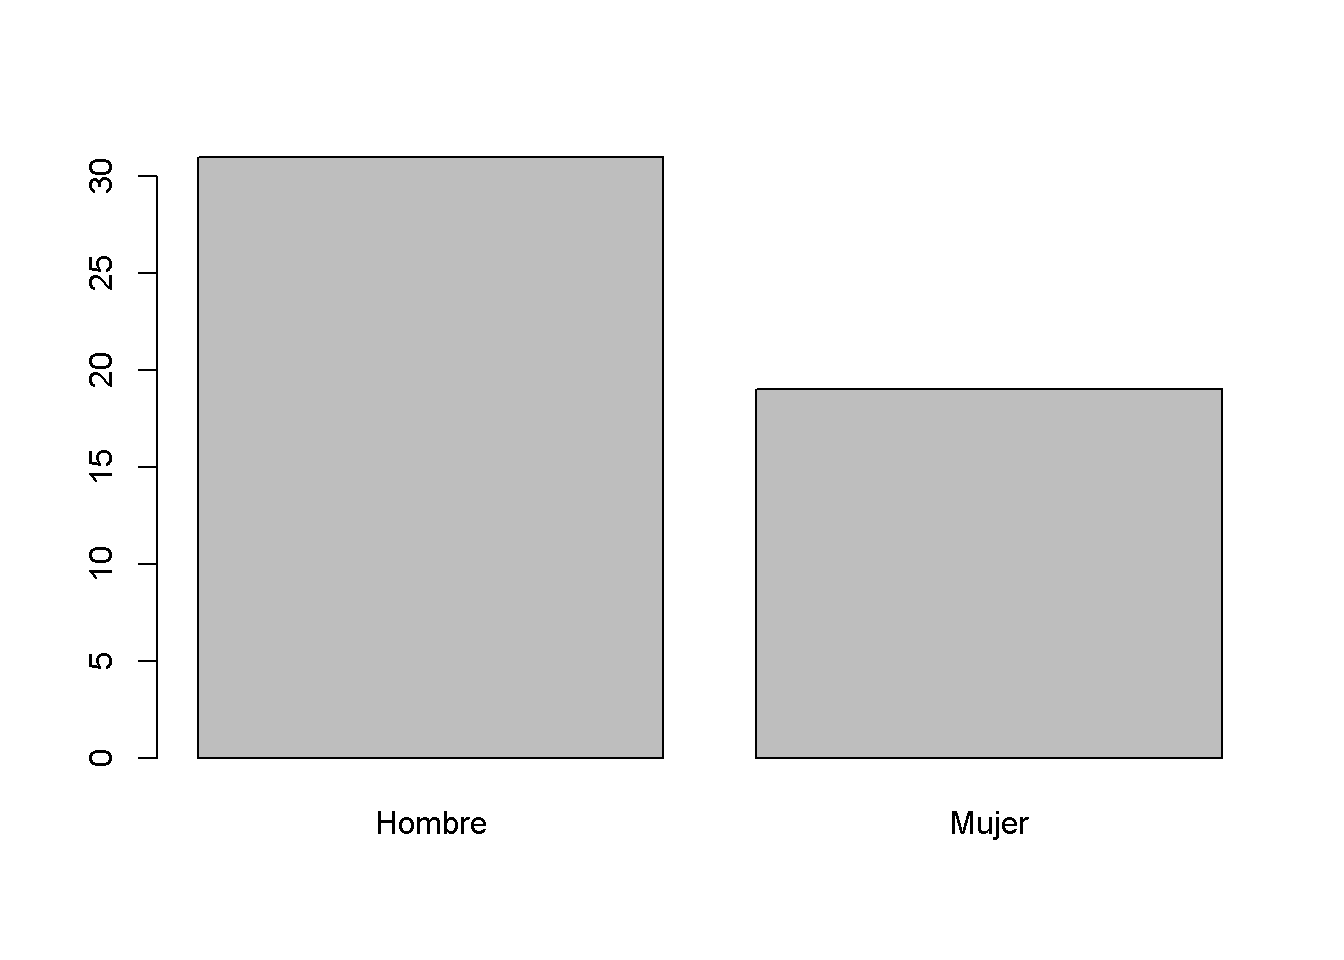
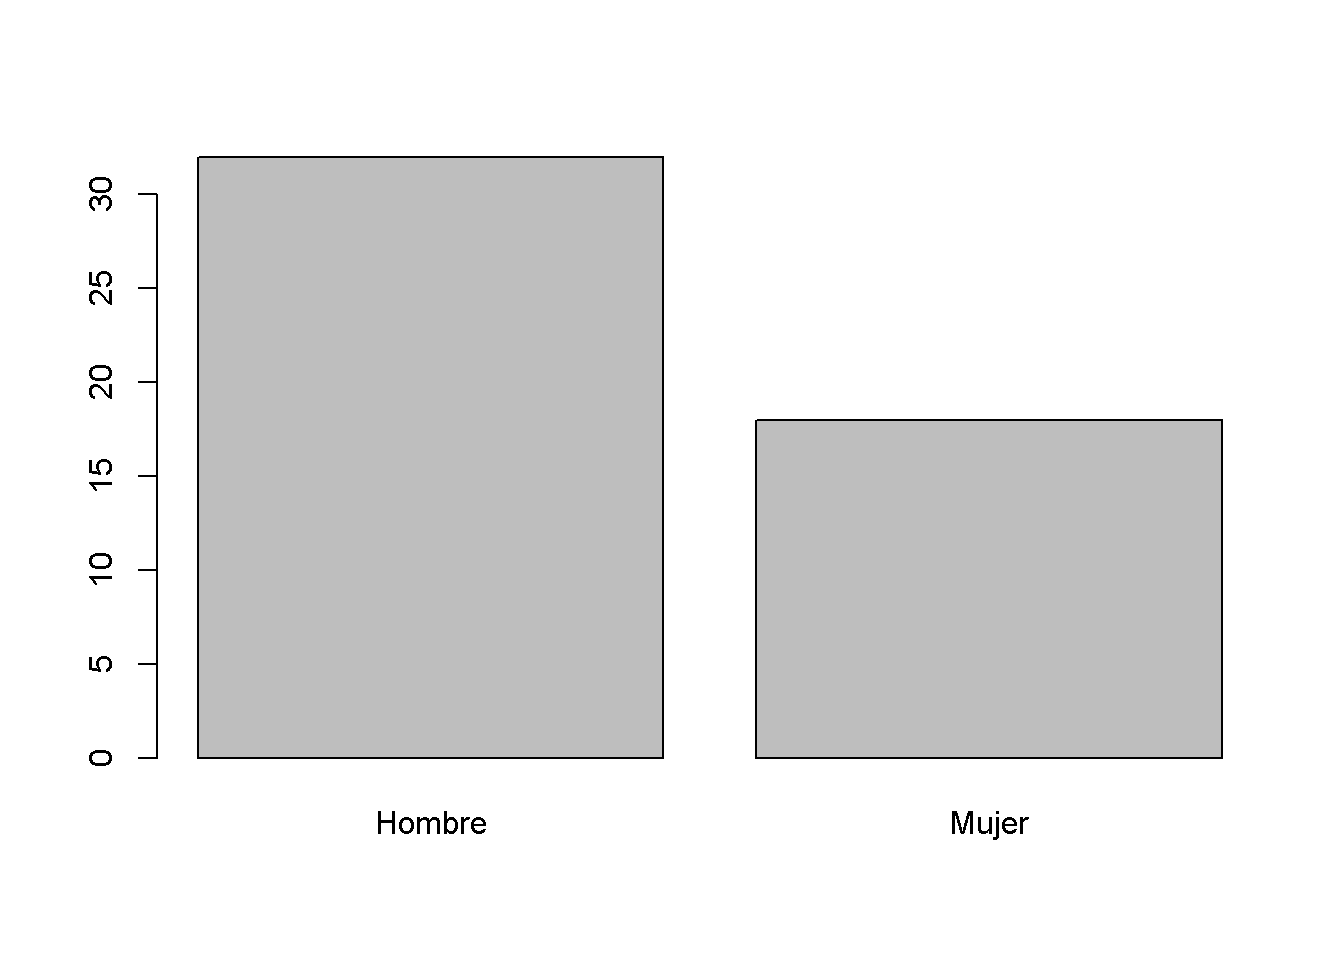
Conflict solving

diff --git a/docs/PR_1_lect.html b/docs/PR_1_lect.html
@@ -9,7 +9,7 @@
 <meta name="author" content="Jesús Esteban Hernández">
 <meta name="dcterms.date" content="2022-02-12">
 
-<title>Bioestadística - Práctica2  Introducción a R y RStudio.</title>
+<title>Bioestadística - Práctica1  Introducción a R y RStudio.</title>
 <style>
 code{white-space: pre-wrap;}
 span.smallcaps{font-variant: small-caps;}
@@ -151,7 +151,7 @@ code span.wa { color: #60a0b0; font-weight: bold; font-style: italic; } /* Warni
   </li>  
   <li class="nav-item">
     <a class="nav-link active" href="./PR_1_lect.html" aria-current="page">
- <span class="menu-text">Práctica2 <br> Introducción a R y RStudio.</span></a>
+ <span class="menu-text">Práctica1 <br> Introducción a R y RStudio.</span></a>
   </li>  
   <li class="nav-item">
     <a class="nav-link" href="./PR_0_lect.html">
@@ -221,7 +221,7 @@ code span.wa { color: #60a0b0; font-weight: bold; font-style: italic; } /* Warni
 
 <header id="title-block-header" class="quarto-title-block default">
 <div class="quarto-title">
-<h1 class="title">Práctica2 <br> Introducción a R y RStudio.</h1>
+<h1 class="title">Práctica1 <br> Introducción a R y RStudio.</h1>
 </div>
 
 
@@ -260,12 +260,12 @@ code span.wa { color: #60a0b0; font-weight: bold; font-style: italic; } /* Warni
     right: 2px;
     margin: 2px 20px 20px 0px;
     color: red;
-    font-size: 2px;
+    font-size: 6px;
   }
 
   .main-container {
   
-  width:1800px !important;
+  width:2400px !important;
   margin-left: 10px;
   margin-right: 10px;
   
@@ -889,7 +889,7 @@ CT       193   4256 341.0   774</code></pre>
  $ :'data.frame':   50 obs. of  3 variables:
  $ :List of 3
   ..- attr(*, "engineVersion")= int 16
-  ..- attr(*, "pid")= int 19560
+  ..- attr(*, "pid")= int 1564
   ..- attr(*, "Rversion")=Classes 'R_system_version', 'package_version', 'numeric_version'  hidden list of 1
   ..- attr(*, "load")= chr(0) 
   ..- attr(*, "attach")= chr(0) 
@@ -913,16 +913,16 @@ CT       193   4256 341.0   774</code></pre>
 <div class="sourceCode cell-code" id="cb81"><pre class="sourceCode r code-with-copy"><code class="sourceCode r"><span id="cb81-1"><a href="#cb81-1" aria-hidden="true" tabindex="-1"></a><span class="fu">head</span>(lista1<span class="sc">$</span>mi_dataframe,<span class="at">n =</span> <span class="dv">10</span>) <span class="co">#Uso head con al argumento n=10 para que solo muestre las 10 primeras filas.</span></span></code><button title="Copy to Clipboard" class="code-copy-button"><i class="bi"></i></button></pre></div>
 <div class="cell-output cell-output-stdout">
 <pre><code>     id pas    sex
-1  1001 124 Hombre
-2  1002 124 Hombre
-3  1003 112 Hombre
-4  1004 116 Hombre
-5  1005 123 Hombre
-6  1006 120 Hombre
-7  1007 110  Mujer
-8  1008 127 Hombre
-9  1009 115 Hombre
-10 1010 122  Mujer</code></pre>
+1  1001 120 Hombre
+2  1002 124  Mujer
+3  1003 110 Hombre
+4  1004 126  Mujer
+5  1005 111 Hombre
+6  1006 119  Mujer
+7  1007 111 Hombre
+8  1008 123 Hombre
+9  1009 121  Mujer
+10 1010 120 Hombre</code></pre>
 </div>
 </div>
 </section>
@@ -966,7 +966,7 @@ CT       193   4256 341.0   774</code></pre>
     }
     else all.names
 }
-&lt;bytecode: 0x00000252c7915830&gt;
+&lt;bytecode: 0x00000225dd2dd790&gt;
 &lt;environment: namespace:base&gt;</code></pre>
 </div>
 </div>
